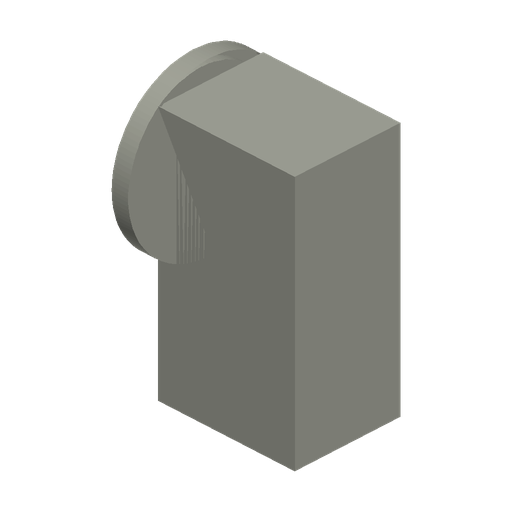
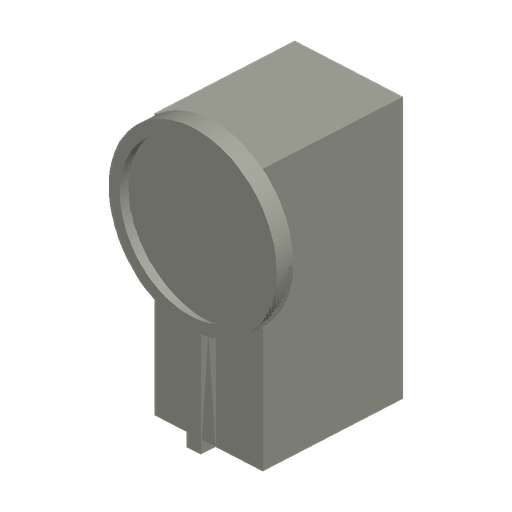
Turn the Detective Agency model to face the right way
The camera is fixed, looking from the north-east, so a model whose front sits
away from that direction gets rendered showing its back. The Detective Agency
was in that position: its circular sign fell behind the box and was almost
invisible.

Adds a per-model yaw applied about the vertical axis before projection, and
turns that one model ninety degrees so the sign faces the viewer with its stem
below, as in the reference. The other five already presented correctly and are
left at zero.

Changed region(s): [[0.1875, 0.0625, 0.8125, 0.9375]]

diff --git a/tools/gen_token_art.py b/tools/gen_token_art.py
@@ -7,6 +7,7 @@ for six small pictures, so each model is rasterised once here to a sprite.
 Run inside the venv that has rhino3dm:
     ../.venv-3dm/bin/python tools/gen_token_art.py ../tokens
 """
+import math
 import pathlib
 import sys
 
@@ -21,6 +22,13 @@ MARGIN = 0.08
 LIT = np.array([226, 104, 104], float)
 COLD = np.array([174, 176, 164], float)
 LIGHT = np.array([0.35, 0.5, 0.79])
+
+# Yaw applied per model, in degrees about the vertical axis, so each building
+# presents the face it should. The camera is fixed, looking from the north-east,
+# so a model whose front sits away from that direction has to be turned.
+ROTATE_DEG = {
+    "detective_agency": 90,
+}
 
 # Source file stem -> destination id in assets/destinations.json.
 MODEL_FOR = {
@@ -66,13 +74,23 @@ def meshes_in(path: pathlib.Path):
     return out
 
 
-def render(parts, base_rgb) -> Image.Image:
+def render(parts, base_rgb, yaw_deg: float = 0) -> Image.Image:
     verts, tris, offset = [], [], 0
     for v, t in parts:
         verts.append(v)
         tris.append(t + offset)
         offset += len(v)
     V, T = np.vstack(verts), np.vstack(tris)
+
+    if yaw_deg:
+        a = math.radians(yaw_deg)
+        c, s_ = math.cos(a), math.sin(a)
+        centre = V.mean(axis=0)
+        xy = V[:, :2] - centre[:2]
+        V = np.column_stack([
+            xy @ np.array([[c, s_], [-s_, c]]) + centre[:2],
+            V[:, 2],
+        ])
 
     view = np.array([-1.0, -1.0, -0.85])
     view /= np.linalg.norm(view)
@@ -124,8 +142,9 @@ if __name__ == "__main__":
         if not parts:
             print(f"  !! {path.name}: no render meshes")
             continue
+        yaw = ROTATE_DEG.get(dest_id, 0)
         for suffix, colour in (("lit", LIT), ("cold", COLD)):
-            render(parts, colour).save(out_dir / f"{dest_id}_{suffix}.png")
+            render(parts, colour, yaw).save(out_dir / f"{dest_id}_{suffix}.png")
         seen.add(dest_id)
         faces = sum(len(t) for _, t in parts)
         print(f"  {path.name:24} -> {dest_id:24} {len(parts):4} meshes {faces:6} faces")
